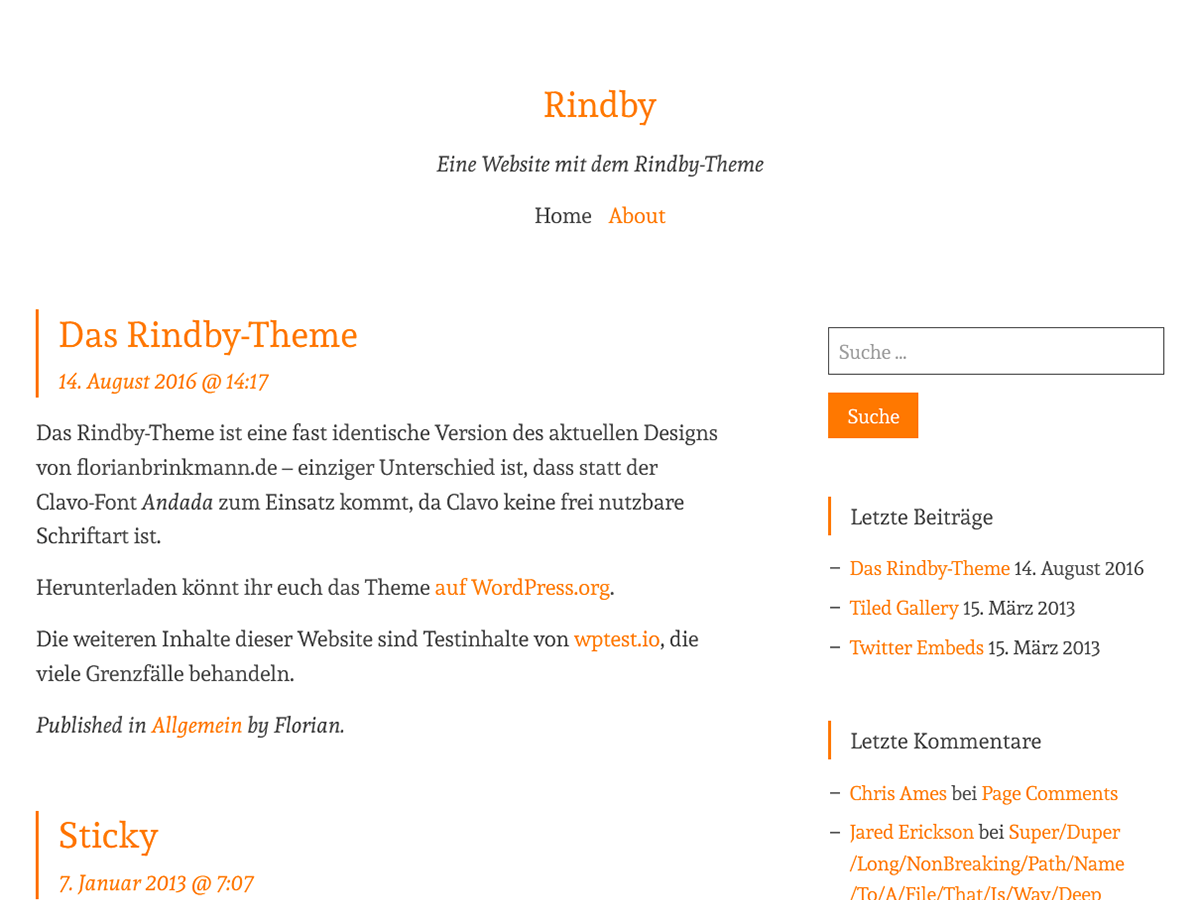
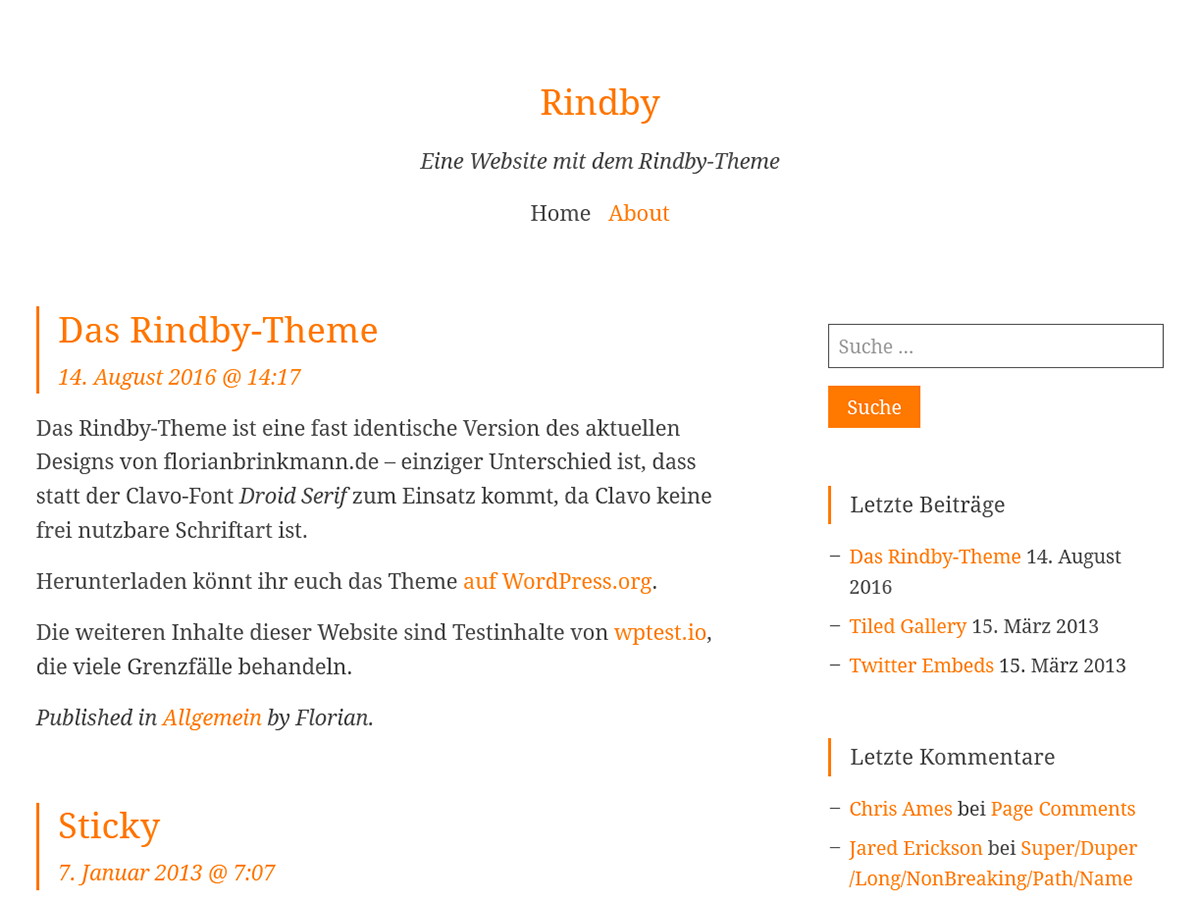
v1.1.3

diff --git a/css/rindby.css b/css/rindby.css
@@ -12,7 +12,7 @@
 
 html {
     color: #444444;
-    font-family: "Andada", "Segoe UI Bold", "Roboto Slab", "Droid Serif", AvenirNext-Bold, "Avenir Bold", Georgia, "Times New Roman", Times, serif; /* 1 */
+    font-family: "Droid Serif", "Segoe UI Bold", "Roboto Slab", AvenirNext-Bold, "Avenir Bold", Georgia, "Times New Roman", Times, serif; /* 1 */
     font-size: 1em;
     line-height: 1.6;
     -ms-text-size-adjust: 100%; /* 2 */
@@ -641,7 +641,6 @@ figure.alignright {
     font-size: 1.66em;
     line-height: 2.4rem;
     margin: 3.6rem 0 0;
-    word-spacing: -0.5ex;
 }
 
 .page .site-title {

diff --git a/style.css b/style.css
@@ -4,7 +4,7 @@ Theme URI: https://en.florianbrinkmann.de/wordpress-themes/rindby/
 Author: Florian Brinkmann
 Author URI: https://en.florianbrinkmann.de
 Description: Simple blogging theme.
-Version: 1.1.2
+Version: 1.1.3
 License: GNU General Public License v2.0
 License URI: http://www.gnu.org/licenses/gpl-2.0.html
 Tags: blog
